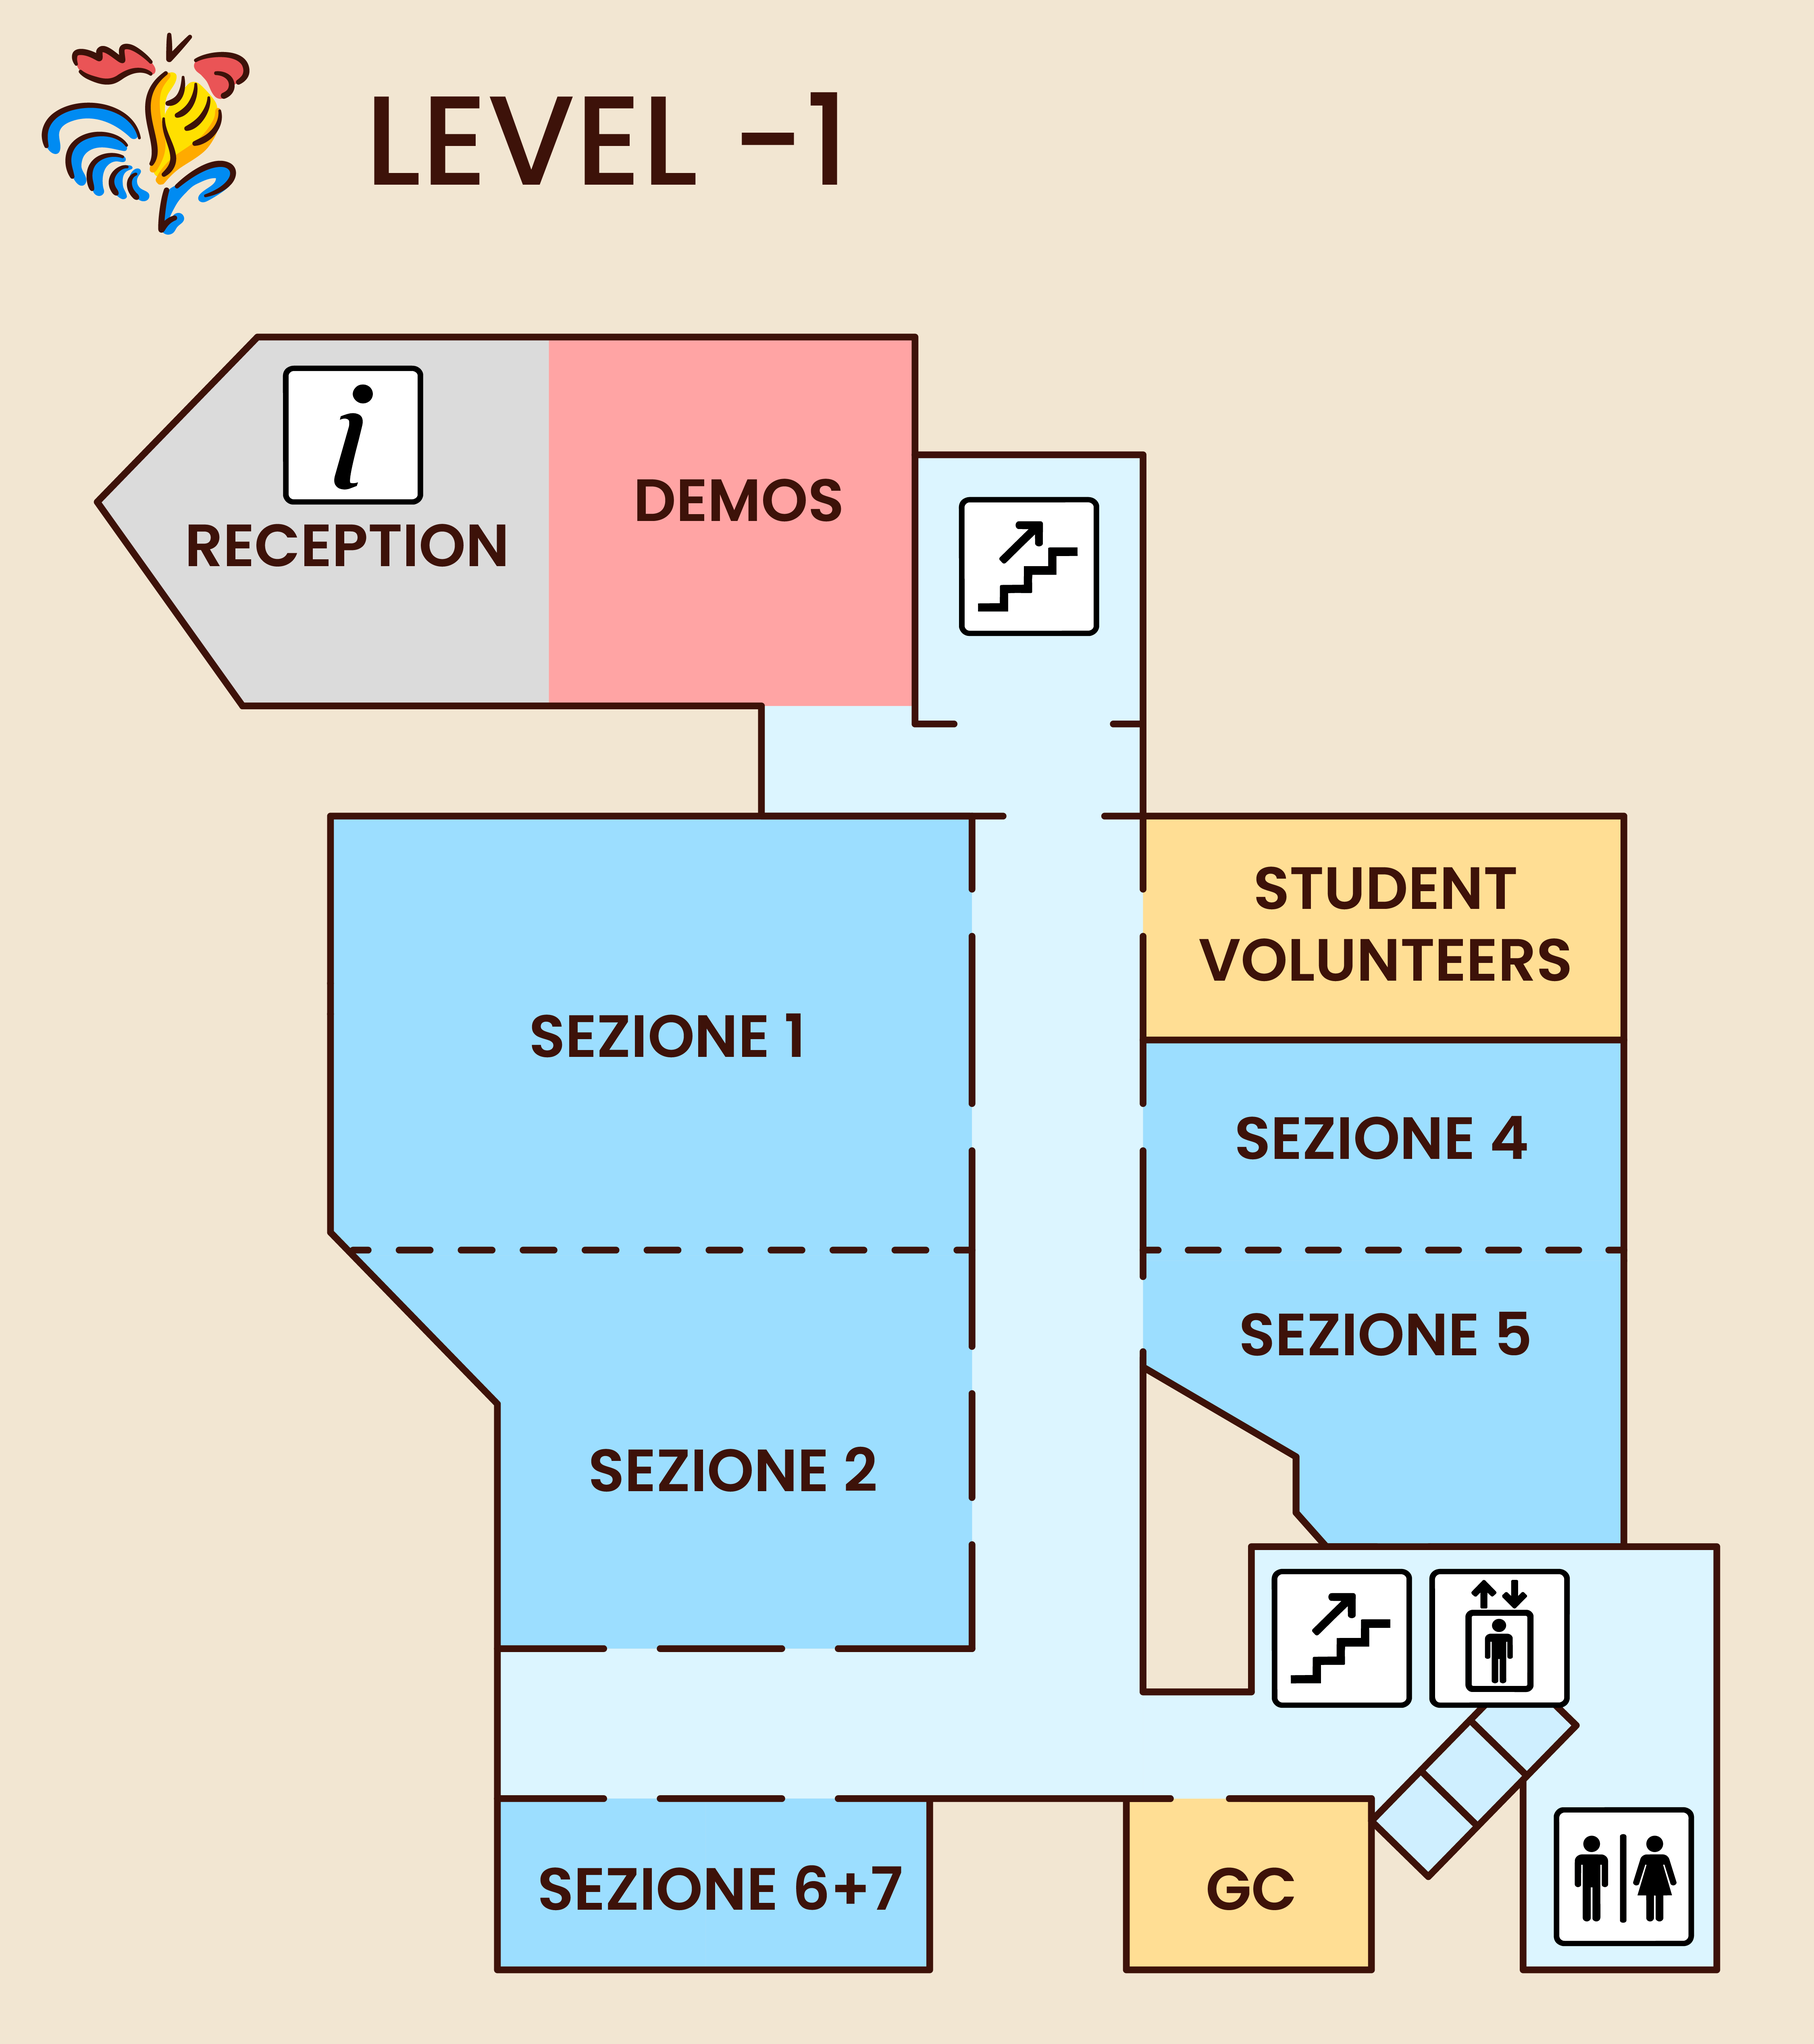
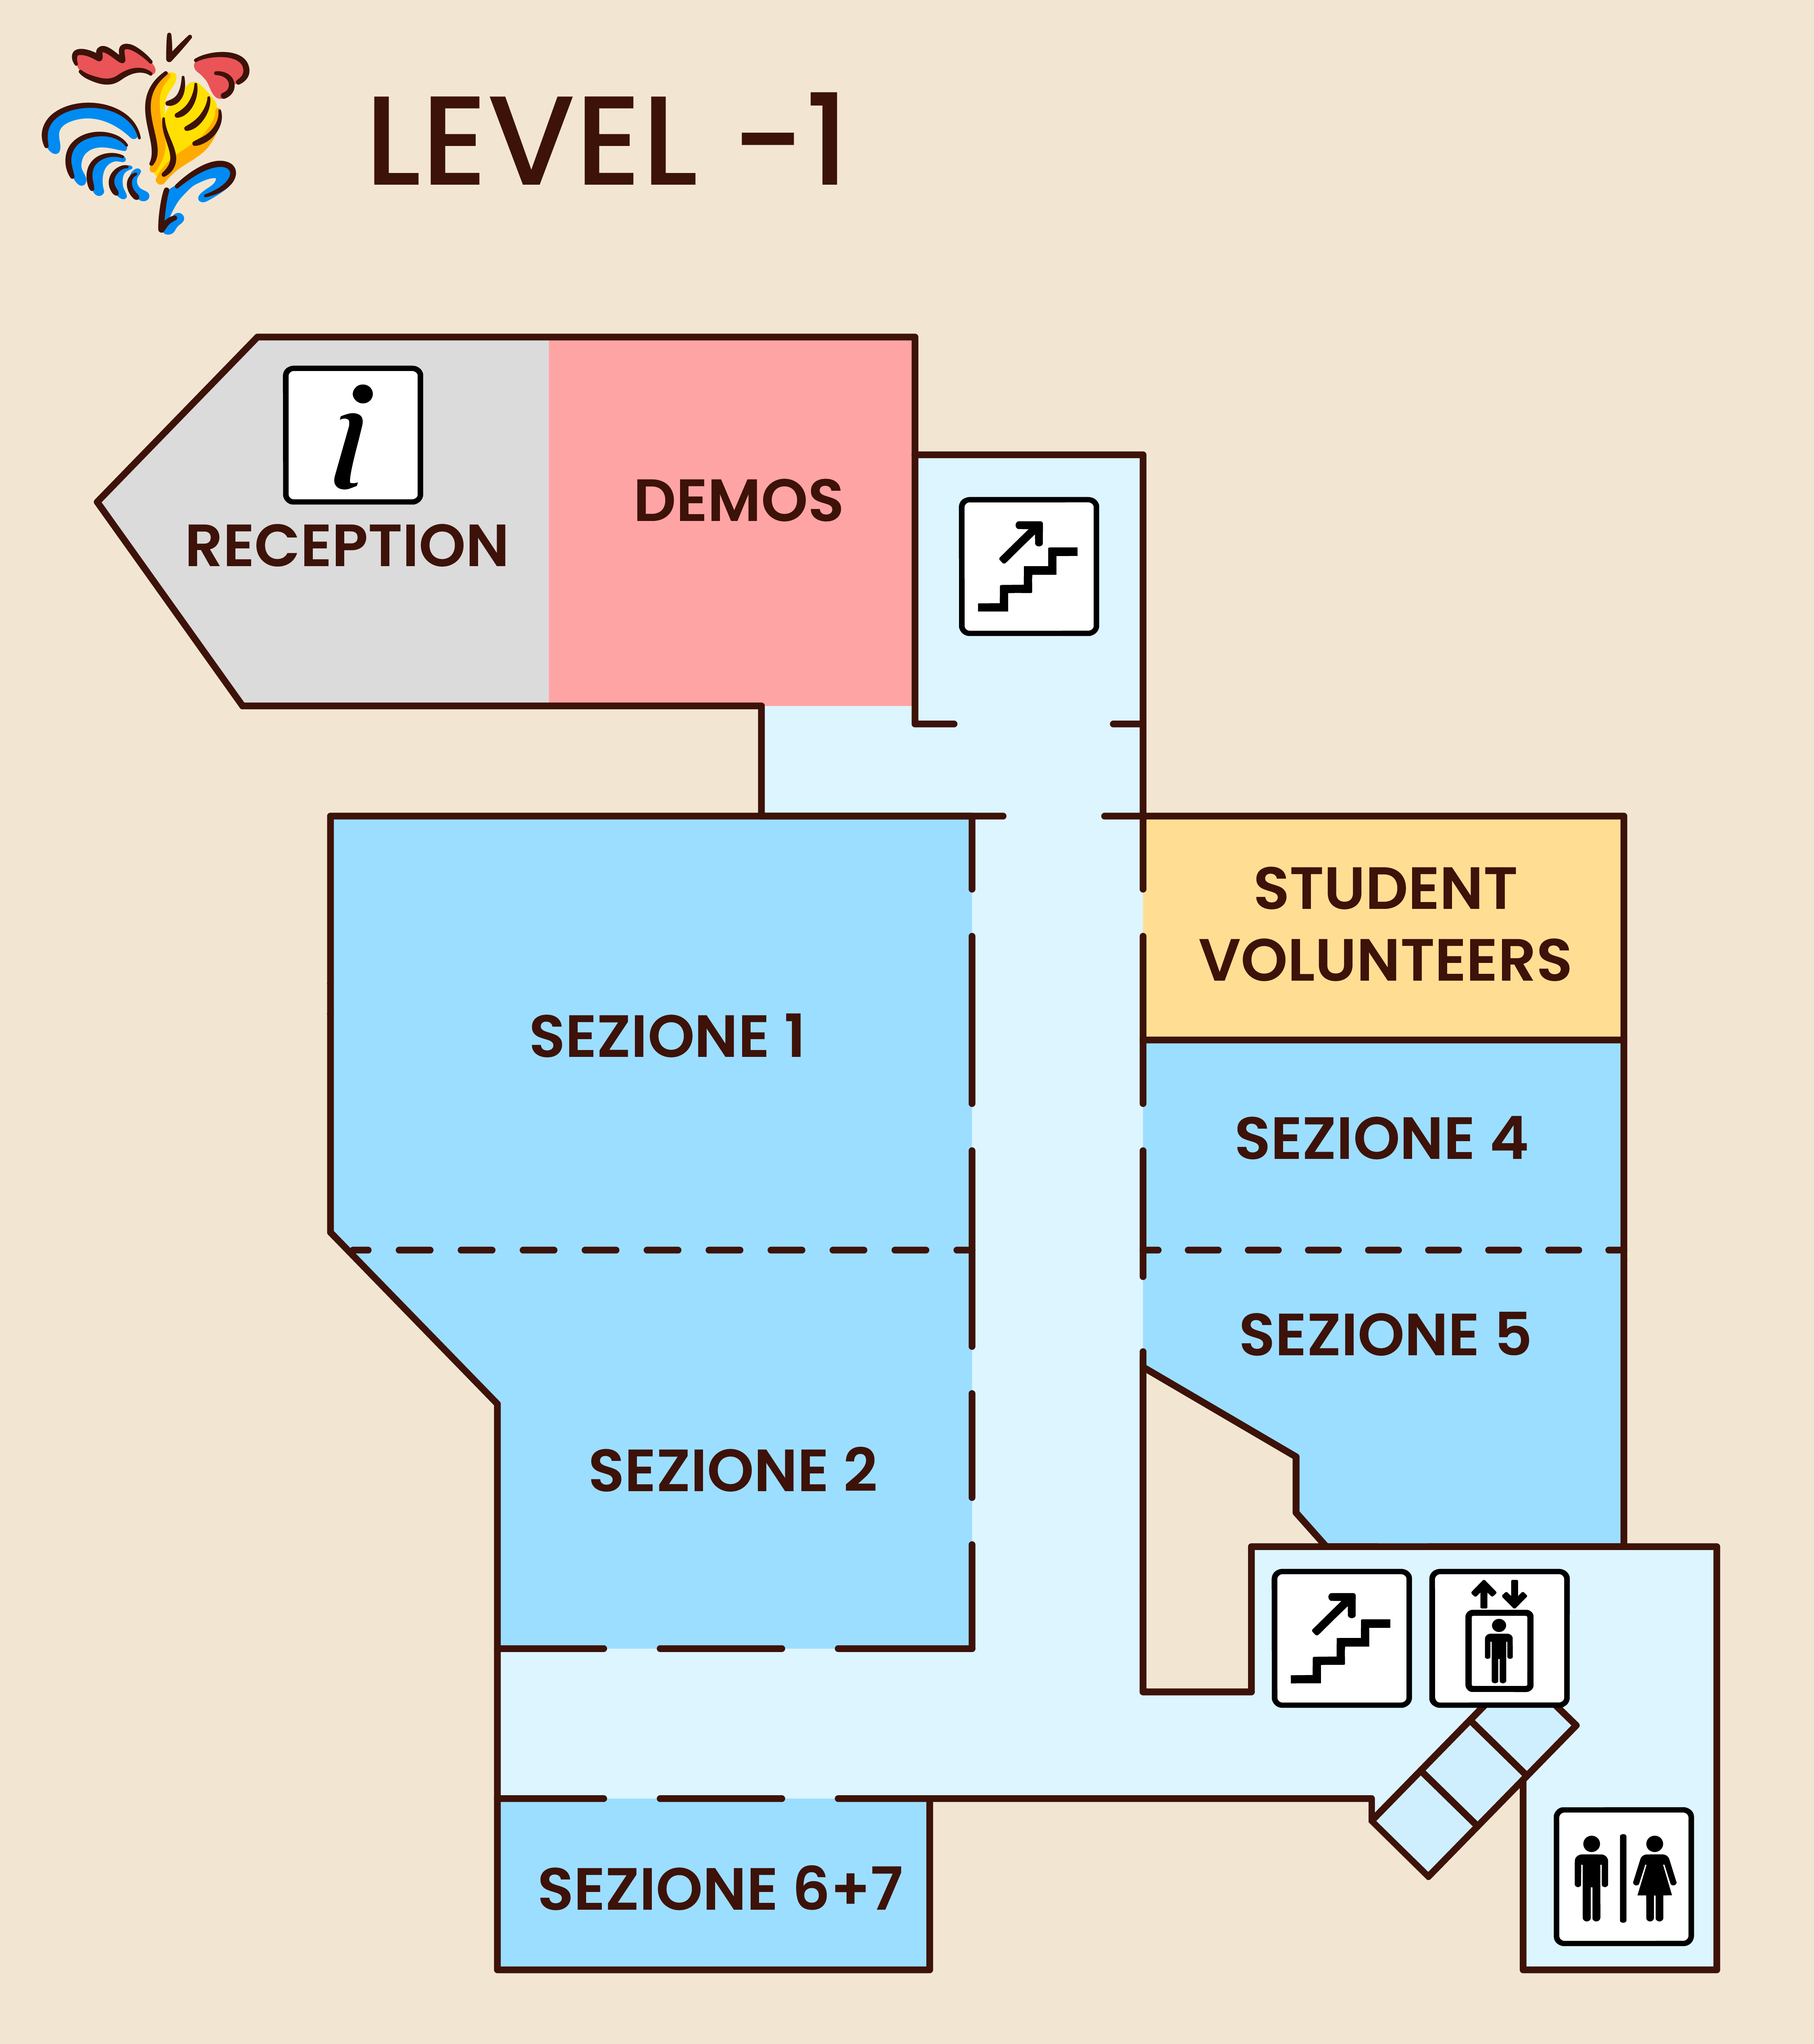
updated the Level -1 floor map- removed GC room

Changed region(s): [[0.5911, 0.8728, 0.7778, 0.9663]]

diff --git a/2026/program/overview.md b/2026/program/overview.md
@@ -48,7 +48,7 @@ permalink: /2026/overview/
       <span class="">Keynote</span>
       <span class="">Papers</span>
       <span class="">Posters</span>
-      <span class="">Demos</span>
+      <span class="">Demos & Fast Forward</span>
       <span class="">Panel</span>
     </span>
     <span class="jump-to">Jump to <span class="jump-to-day">Wednesday</span></span>
